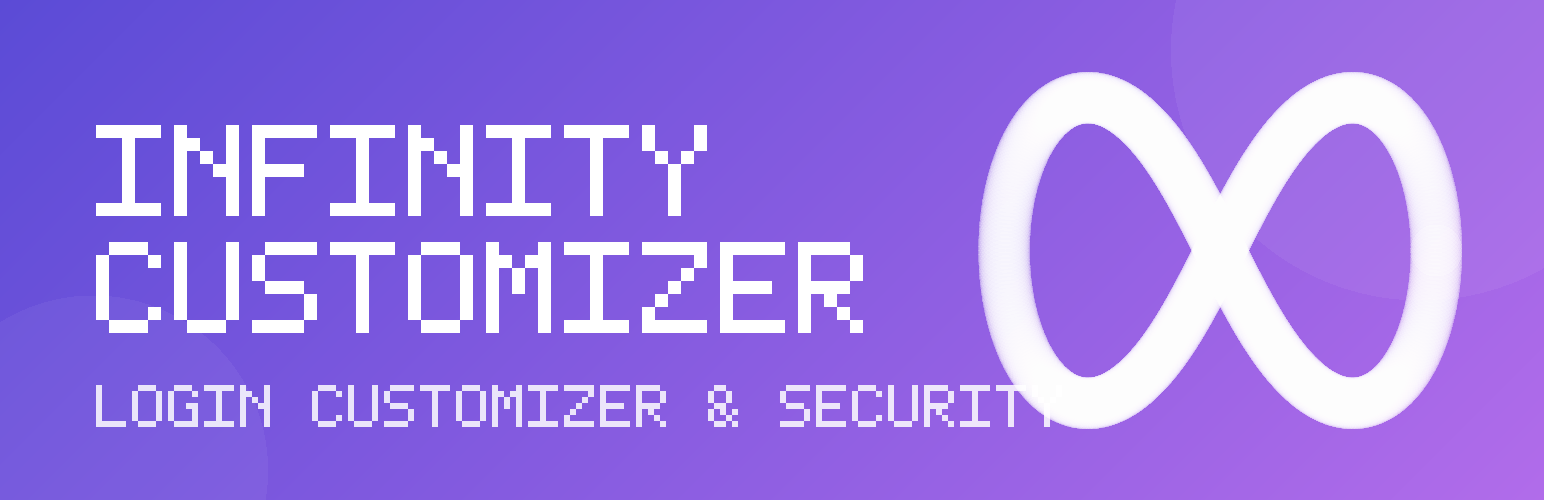
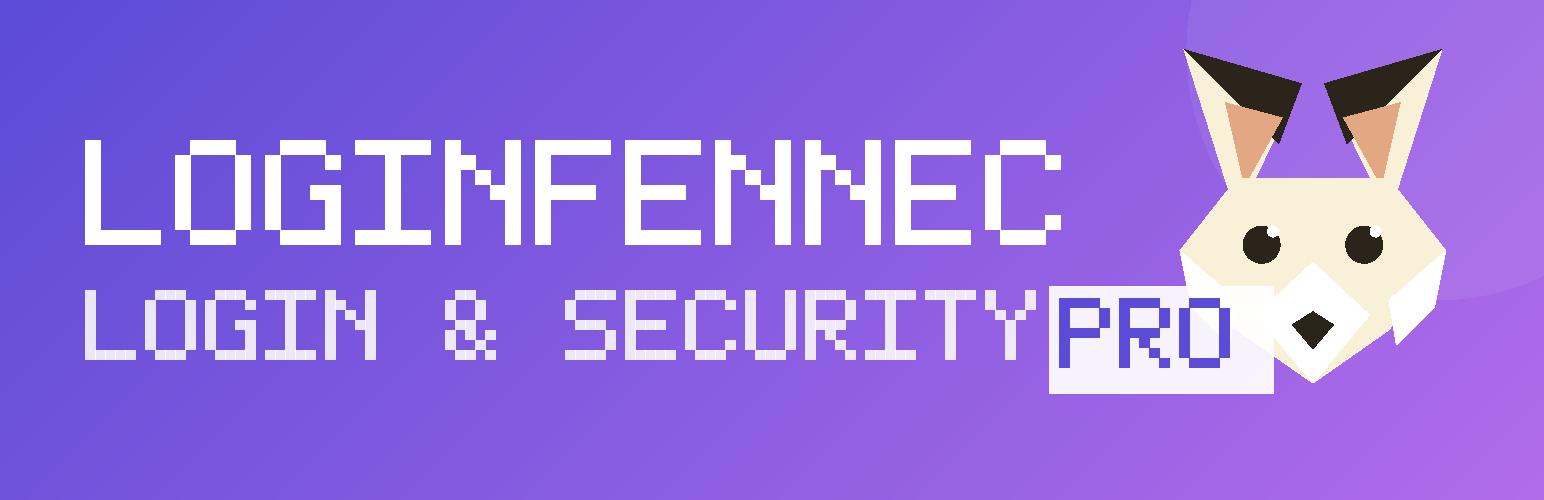
Assets wp.org remplacés par le fennec ; README à jour (paiements CCP/BaridiMob/PayPal, licence 1/5 sites) ; setup VS Code (.vscode, .editorconfig, PHP portable référencé)

Changed region(s): [[0.0311, 0.09, 0.9637, 0.87]]

diff --git a/README.md b/README.md
@@ -1,25 +1,26 @@
-# LoginFennec Pro – Login Customizer & Security
+# LoginFennec Pro – Personnalisation page login et Security
 
-Plugin WordPress : personnalisation complète de la page de connexion avec aperçu en direct et protection contre les tentatives de mot de passe.
+Plugin WordPress : personnalisation complète de la page de connexion avec aperçu en direct, protection anti force brute et achat intégré (CCP/BaridiMob, PayPal, carte).
 
-> Version 1.0.0 · Auteur : Derouiche Oussama · Licence GPL v2 ou ultérieure
+> Version 2.3.1 · Auteur : Derouiche Oussama · Licence GPL v2 ou ultérieure · Mascotte : fennec 🦊
 
 ## Fonctionnalités
 
 | Catégorie | Détails |
 |---|---|
-| **Logo** | Image personnalisée, largeur/hauteur, lien cliquable, masquage complet |
-| **Arrière-plan** | Couleur unie, dégradé (angle 0-360°), image (cover/contain/motif) |
-| **Flou & opacité** | Flou de l'image de fond, voile coloré réglable, effet verre du formulaire (backdrop-filter) |
-| **Styles modernes** | 6 presets en 1 clic : Effet verre, Minimal, Sombre, Coucher de soleil, Océan, Forêt |
-| **Formulaire** | Opacité, flou, arrondis, largeur, padding, ombre, couleurs (textes, champs, bouton, liens) |
-| **Liens** | Texte/cible de « Retour au site », masquage de « Mot de passe perdu ? », « S'enregistrer », « Retour au site » |
-| **Réseaux sociaux** | Facebook, X, Instagram, LinkedIn, YouTube, e-mail — cercle/arrondi/carré, taille et couleurs |
-| **Copyright** | Ligne personnalisée avec variables `{year}` et `{sitename}` |
-| **Sécurité** | Blocage des tentatives (IP + identifiant), durée configurable, messages personnalisables, erreurs génériques, sélecteur de langue, en-têtes HTTP |
-| **Dashboard** | Onglets modernes, aperçu en direct (bureau/tablette/mobile), presets, médiathèque |
-| **À propos** | Page dédiée : développeur, fonctionnalités, bouton **Faire un don**, état du système |
-| **Mises à jour** | Updater GitHub intégré + GitHub Action de release |
+| **Logo** | Image **ou texte**, largeur/hauteur, lien cliquable, masquage complet |
+| **Arrière-plan** | Couleur, dégradé (angle), image (cover/contain/motif) avec position, flou, luminosité, saturation, voile coloré |
+| **Styles & thèmes** | **10 styles** en 1 clic (Effet verre → Royal) + **7 thèmes d'interface** du formulaire |
+| **Formulaire** | Opacité, flou, arrondis, largeur, hauteur des champs, placeholders et libellés personnalisés |
+| **Redirection** | Page de destination après connexion |
+| **Liens** | Texte/cible de « Retour au site », masquage des liens (mot de passe perdu, enregistrement) |
+| **Réseaux sociaux** | Facebook, X, Instagram, LinkedIn, YouTube, e-mail — **couleurs officielles des marques** |
+| **Copyright + extras** | Mention `{year}`/`{sitename}`, message d'accueil, 4 polices, animations d'entrée, **CSS + JS personnalisés** |
+| **Sécurité** | Blocage des tentatives **avec escalade ×2 par récidive**, honeypot, anti-énumération, XML-RPC, mots de passe d'application, liste blanche IP, erreurs génériques |
+| **Journal & stats** | 50 derniers événements (export CSV), score de sécurité /5, statistiques dashboard |
+| **Licence & achat** | Achat intégré : **BaridiMob/CCP, PayPal, carte** — détails et statut de licence en direct |
+| **Dashboard** | Onglets modernes, aperçu en direct plein écran, installateur guidé en 4 étapes |
+| **Mises à jour** | Updater GitHub intégré (bascule auto vers WordPress.org) + GitHub Action de release |
 
 ## Installation
 
@@ -123,3 +124,19 @@ Dès que la version existe sur WordPress.org, l'updater intégré s'efface autom
 - Les données stockées : une option de réglages, le journal des tentatives (purge auto à 24 h), un transient de cache GitHub (6 h). Tout est supprimé à la désinstallation.
 - La sécurité utilise `REMOTE_ADDR` ; derrière un reverse proxy, configurez votre serveur pour exposer la vraie IP.
 - Aucune dépendance externe, aucune requête de télémétrie.
+
+## Développement dans VS Code
+
+Le projet est du PHP/JS/CSS standard : ouvrez le dossier dans **VS Code** (Fichier → Ouvrir le dossier) et tout fonctionne.
+
+1. Installez les extensions recommandées (VS Code les proposera automatiquement via `.vscode/extensions.json`) :
+   - **Intelephense** — autocomplétion et analyse PHP ;
+   - **PHP Sniffer** (+ PHP SAB) — applique les standards WordPress via `phpcs.xml.dist` ;
+   - **EditorConfig** — respecte `.editorconfig` (tabs, fins de ligne).
+2. Un **PHP portable 8.3** est inclus dans `_php/php/php.exe` (référencé dans `.vscode/settings.json`) — rien à installer.
+3. Commandes utiles :
+   - `node tools/generate-assets.mjs` / `node tools/generate-logo.mjs` / `node tools/generate-brand-pro.mjs` — régénère les visuels ;
+   - `_php/php/php.exe -l <fichier>` — vérifie la syntaxe ;
+   - `composer install && composer lint:standards` — PHPCS complet (si Composer installé).
+
+## Outils de développement (VS Code)
